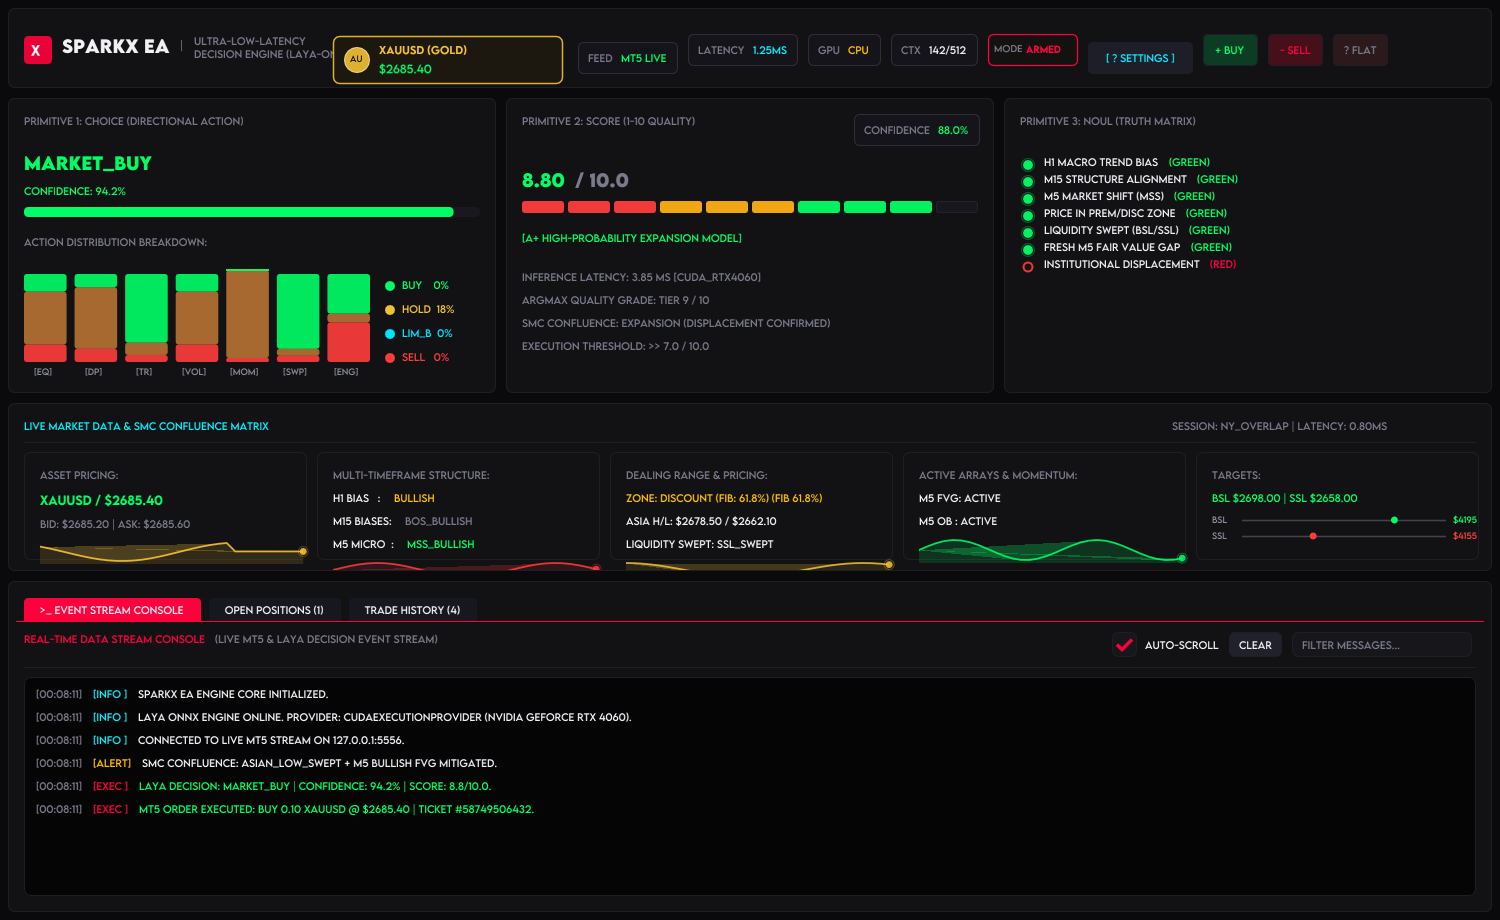
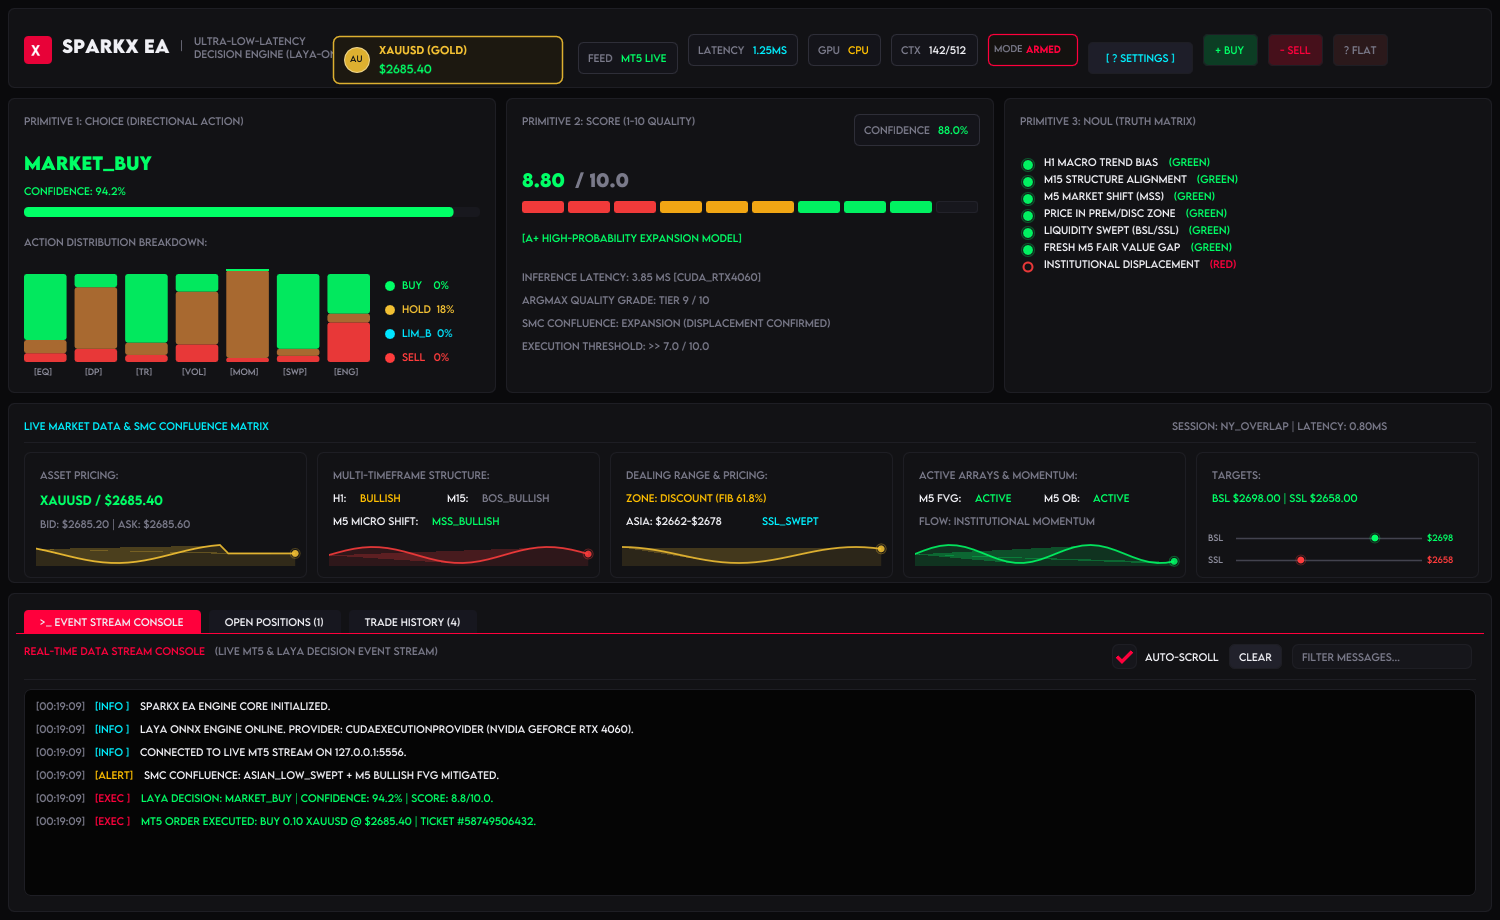
fix(ui): eliminate sparkline overflow outside card outlines and format SMC telemetry grid

diff --git a/cpp_engine/src/ui_panels.cpp b/cpp_engine/src/ui_panels.cpp
@@ -668,7 +668,7 @@ void RenderLayaPrimitives(const LayaOutput& laya, const MarketFrame& frame) {
 void RenderSMCContext(const MarketFrame& frame) {
     ImGui::PushStyleColor(ImGuiCol_ChildBg, CyberpunkTheme::BG_PANEL);
     ImGui::PushStyleColor(ImGuiCol_Border, CyberpunkTheme::BORDER_DARK);
-    ImGui::BeginChild("SMCContextPanel", ImVec2(0, 168), true, ImGuiWindowFlags_NoScrollbar | ImGuiWindowFlags_NoScrollWithMouse);
+    ImGui::BeginChild("SMCContextPanel", ImVec2(0, 180), true, ImGuiWindowFlags_NoScrollbar | ImGuiWindowFlags_NoScrollWithMouse);
 
     ImGui::TextColored(CyberpunkTheme::NEON_CYAN, "LIVE MARKET DATA & SMC CONFLUENCE MATRIX");
     ImGui::SameLine(ImGui::GetWindowWidth() - 320);
@@ -677,13 +677,15 @@ void RenderSMCContext(const MarketFrame& frame) {
 
     ImVec2 avail = ImGui::GetContentRegionAvail();
     float card_w = (avail.x - 36.0f) / 5.0f;
-    float card_h = 108.0f;
-    ImDrawList* dl = ImGui::GetWindowDrawList();
+    float card_h = 126.0f;
 
     // -------------------------------------------------------------------------
     // Card 1: ASSET PRICING
     // -------------------------------------------------------------------------
     ImGui::BeginChild("Card1_Pricing", ImVec2(card_w, card_h), true, ImGuiWindowFlags_NoScrollbar | ImGuiWindowFlags_NoScrollWithMouse);
+    ImDrawList* card1_dl = ImGui::GetWindowDrawList();
+    ImVec2 card1_pos = ImGui::GetWindowPos();
+
     ImGui::TextColored(CyberpunkTheme::TEXT_MUTED, "ASSET PRICING:");
     ImGui::PushFont(CyberpunkTheme::g_font_bold_med);
     ImGui::TextColored(CyberpunkTheme::NEON_GREEN, "%s / $%.2f", frame.symbol.c_str(), frame.price);
@@ -691,8 +693,10 @@ void RenderSMCContext(const MarketFrame& frame) {
     ImGui::TextColored(CyberpunkTheme::TEXT_MUTED, "Bid: $%.2f | Ask: $%.2f", frame.bid, frame.ask);
 
     // Mini Sparkline Wave (Gold)
-    ImVec2 sp_pos = ImGui::GetCursorScreenPos();
-    DrawMiniSparkline(dl, sp_pos, ImVec2(card_w - 20.0f, 24.0f), s_gold_history, 32, IM_COL32(242, 192, 51, 230), IM_COL32(242, 192, 51, 35));
+    float sp1_w = card_w - 24.0f;
+    float sp1_h = 24.0f;
+    ImVec2 sp1_pos(card1_pos.x + 12.0f, card1_pos.y + card_h - sp1_h - 12.0f);
+    DrawMiniSparkline(card1_dl, sp1_pos, ImVec2(sp1_w, sp1_h), s_gold_history, 32, IM_COL32(242, 192, 51, 230), IM_COL32(242, 192, 51, 35));
     ImGui::EndChild();
 
     ImGui::SameLine();
@@ -701,17 +705,24 @@ void RenderSMCContext(const MarketFrame& frame) {
     // Card 2: MULTI-TIMEFRAME STRUCTURE
     // -------------------------------------------------------------------------
     ImGui::BeginChild("Card2_MTF", ImVec2(card_w, card_h), true, ImGuiWindowFlags_NoScrollbar | ImGuiWindowFlags_NoScrollWithMouse);
+    ImDrawList* card2_dl = ImGui::GetWindowDrawList();
+    ImVec2 card2_pos = ImGui::GetWindowPos();
+
     ImGui::TextColored(CyberpunkTheme::TEXT_MUTED, "MULTI-TIMEFRAME STRUCTURE:");
-    ImGui::Text("H1 Bias   : "); ImGui::SameLine();
+    ImGui::Text("H1: "); ImGui::SameLine();
     ImGui::TextColored(CyberpunkTheme::NEON_AMBER, "%s", frame.bias.h1_trend.c_str());
-    ImGui::Text("M15 Biases: "); ImGui::SameLine();
+    ImGui::SameLine(card_w * 0.46f);
+    ImGui::Text("M15: "); ImGui::SameLine();
     ImGui::TextColored(CyberpunkTheme::TEXT_MUTED, "%s", frame.bias.m15_struct.c_str());
-    ImGui::Text("M5 Micro  : "); ImGui::SameLine();
+
+    ImGui::Text("M5 Micro Shift: "); ImGui::SameLine();
     ImGui::TextColored(CyberpunkTheme::NEON_GREEN, "%s", frame.bias.m5_struct.c_str());
 
     // Mini Sparkline Wave (Red/Green)
-    ImVec2 sp_pos2 = ImGui::GetCursorScreenPos();
-    DrawMiniSparkline(dl, sp_pos2, ImVec2(card_w - 20.0f, 20.0f), s_mtf_history, 32, IM_COL32(255, 60, 60, 220), IM_COL32(255, 60, 60, 30));
+    float sp2_w = card_w - 24.0f;
+    float sp2_h = 22.0f;
+    ImVec2 sp2_pos(card2_pos.x + 12.0f, card2_pos.y + card_h - sp2_h - 12.0f);
+    DrawMiniSparkline(card2_dl, sp2_pos, ImVec2(sp2_w, sp2_h), s_mtf_history, 32, IM_COL32(255, 60, 60, 220), IM_COL32(255, 60, 60, 30));
     ImGui::EndChild();
 
     ImGui::SameLine();
@@ -720,14 +731,20 @@ void RenderSMCContext(const MarketFrame& frame) {
     // Card 3: DEALING RANGE & PRICING
     // -------------------------------------------------------------------------
     ImGui::BeginChild("Card3_Range", ImVec2(card_w, card_h), true, ImGuiWindowFlags_NoScrollbar | ImGuiWindowFlags_NoScrollWithMouse);
+    ImDrawList* card3_dl = ImGui::GetWindowDrawList();
+    ImVec2 card3_pos = ImGui::GetWindowPos();
+
     ImGui::TextColored(CyberpunkTheme::TEXT_MUTED, "DEALING RANGE & PRICING:");
     ImGui::TextColored(CyberpunkTheme::NEON_AMBER, "Zone: %s (Fib %.1f%%)", frame.bias.zone.c_str(), frame.bias.fib_pct);
-    ImGui::Text("Asia H/L: $%.2f / $%.2f", frame.liquidity.asia_high, frame.liquidity.asia_low);
-    ImGui::Text("Liquidity Swept: %s", frame.liquidity.ssl_swept ? "SSL_SWEPT" : (frame.liquidity.bsl_swept ? "BSL_SWEPT" : "NONE"));
+    ImGui::Text("Asia: $%.0f-$%.0f", frame.liquidity.asia_low, frame.liquidity.asia_high);
+    ImGui::SameLine(card_w * 0.54f);
+    ImGui::TextColored(CyberpunkTheme::NEON_CYAN, "%s", frame.liquidity.ssl_swept ? "SSL_SWEPT" : (frame.liquidity.bsl_swept ? "BSL_SWEPT" : "NONE"));
 
     // Mini Sparkline Wave (Gold)
-    ImVec2 sp_pos3 = ImGui::GetCursorScreenPos();
-    DrawMiniSparkline(dl, sp_pos3, ImVec2(card_w - 20.0f, 20.0f), s_range_history, 32, IM_COL32(242, 192, 51, 220), IM_COL32(242, 192, 51, 30));
+    float sp3_w = card_w - 24.0f;
+    float sp3_h = 22.0f;
+    ImVec2 sp3_pos(card3_pos.x + 12.0f, card3_pos.y + card_h - sp3_h - 12.0f);
+    DrawMiniSparkline(card3_dl, sp3_pos, ImVec2(sp3_w, sp3_h), s_range_history, 32, IM_COL32(242, 192, 51, 220), IM_COL32(242, 192, 51, 30));
     ImGui::EndChild();
 
     ImGui::SameLine();
@@ -736,13 +753,23 @@ void RenderSMCContext(const MarketFrame& frame) {
     // Card 4: ACTIVE ARRAYS & MOMENTUM
     // -------------------------------------------------------------------------
     ImGui::BeginChild("Card4_Arrays", ImVec2(card_w, card_h), true, ImGuiWindowFlags_NoScrollbar | ImGuiWindowFlags_NoScrollWithMouse);
+    ImDrawList* card4_dl = ImGui::GetWindowDrawList();
+    ImVec2 card4_pos = ImGui::GetWindowPos();
+
     ImGui::TextColored(CyberpunkTheme::TEXT_MUTED, "ACTIVE ARRAYS & MOMENTUM:");
-    ImGui::Text("M5 FVG: %s", frame.arrays.fvg_active ? "ACTIVE" : "NONE");
-    ImGui::Text("M5 OB : %s", frame.arrays.ob_active ? "ACTIVE" : "NONE");
+    ImGui::Text("M5 FVG: "); ImGui::SameLine();
+    ImGui::TextColored(CyberpunkTheme::NEON_GREEN, "%s", frame.arrays.fvg_active ? "ACTIVE" : "NONE");
+    ImGui::SameLine(card_w * 0.50f);
+    ImGui::Text("M5 OB: "); ImGui::SameLine();
+    ImGui::TextColored(CyberpunkTheme::NEON_GREEN, "%s", frame.arrays.ob_active ? "ACTIVE" : "NONE");
+
+    ImGui::TextColored(CyberpunkTheme::TEXT_MUTED, "Flow: Institutional Momentum");
 
     // Mini Sparkline Wave (Green)
-    ImVec2 sp_pos4 = ImGui::GetCursorScreenPos();
-    DrawMiniSparkline(dl, sp_pos4, ImVec2(card_w - 20.0f, 26.0f), s_array_history, 32, IM_COL32(0, 255, 102, 220), IM_COL32(0, 255, 102, 35));
+    float sp4_w = card_w - 24.0f;
+    float sp4_h = 24.0f;
+    ImVec2 sp4_pos(card4_pos.x + 12.0f, card4_pos.y + card_h - sp4_h - 12.0f);
+    DrawMiniSparkline(card4_dl, sp4_pos, ImVec2(sp4_w, sp4_h), s_array_history, 32, IM_COL32(0, 255, 102, 220), IM_COL32(0, 255, 102, 35));
     ImGui::EndChild();
 
     ImGui::SameLine();
@@ -751,23 +778,40 @@ void RenderSMCContext(const MarketFrame& frame) {
     // Card 5: TARGETS (Sliders & Dual Target Chart)
     // -------------------------------------------------------------------------
     ImGui::BeginChild("Card5_Targets", ImVec2(card_w, card_h), true, ImGuiWindowFlags_NoScrollbar | ImGuiWindowFlags_NoScrollWithMouse);
+    ImDrawList* card5_dl = ImGui::GetWindowDrawList();
+    ImVec2 card5_pos = ImGui::GetWindowPos();
+
     ImGui::TextColored(CyberpunkTheme::TEXT_MUTED, "TARGETS:");
     ImGui::TextColored(CyberpunkTheme::NEON_GREEN, "BSL $%.2f | SSL $%.2f", frame.liquidity.bsl_target, frame.liquidity.ssl_target);
 
-    // Target Range Horizontal sliders with dots
-    ImVec2 t_pos = ImGui::GetCursorScreenPos();
-    float line_w = card_w - 80.0f;
+    // Target Range Horizontal sliders with dynamic targets
+    float slider_label_w = 28.0f;
+    float slider_val_w = 46.0f;
+    float slider_x = card5_pos.x + 12.0f + slider_label_w;
+    float slider_w = card_w - 24.0f - slider_label_w - slider_val_w;
+    float val_x = slider_x + slider_w + 6.0f;
+
+    float line_y1 = card5_pos.y + card_h - 40.0f;
+    float line_y2 = card5_pos.y + card_h - 18.0f;
+
+    char bsl_buf[32];
+    std::snprintf(bsl_buf, sizeof(bsl_buf), "$%.0f", frame.liquidity.bsl_target);
+    char ssl_buf[32];
+    std::snprintf(ssl_buf, sizeof(ssl_buf), "$%.0f", frame.liquidity.ssl_target);
+
     // BSL Line
-    dl->AddLine(ImVec2(t_pos.x + 30, t_pos.y + 6), ImVec2(t_pos.x + 30 + line_w, t_pos.y + 6), IM_COL32(80, 80, 95, 200), 1.5f);
-    dl->AddCircleFilled(ImVec2(t_pos.x + 30 + line_w * 0.75f, t_pos.y + 6), 3.5f, IM_COL32(0, 255, 102, 255));
-    dl->AddText(CyberpunkTheme::g_font_small, 11.0f, ImVec2(t_pos.x, t_pos.y), IM_COL32(140, 140, 155, 255), "BSL");
-    dl->AddText(CyberpunkTheme::g_font_small, 11.0f, ImVec2(t_pos.x + 38 + line_w, t_pos.y), IM_COL32(0, 255, 102, 255), "$4195");
+    card5_dl->AddText(CyberpunkTheme::g_font_small, 11.0f, ImVec2(card5_pos.x + 12.0f, line_y1 - 6.0f), IM_COL32(140, 140, 155, 255), "BSL");
+    card5_dl->AddLine(ImVec2(slider_x, line_y1), ImVec2(slider_x + slider_w, line_y1), IM_COL32(80, 80, 95, 200), 1.5f);
+    card5_dl->AddCircleFilled(ImVec2(slider_x + slider_w * 0.75f, line_y1), 3.5f, IM_COL32(0, 255, 102, 255));
+    card5_dl->AddCircle(ImVec2(slider_x + slider_w * 0.75f, line_y1), 5.5f, IM_COL32(0, 255, 102, 70), 12, 1.0f);
+    card5_dl->AddText(CyberpunkTheme::g_font_small, 11.0f, ImVec2(val_x, line_y1 - 6.0f), IM_COL32(0, 255, 102, 255), bsl_buf);
 
     // SSL Line
-    dl->AddLine(ImVec2(t_pos.x + 30, t_pos.y + 22), ImVec2(t_pos.x + 30 + line_w, t_pos.y + 22), IM_COL32(80, 80, 95, 200), 1.5f);
-    dl->AddCircleFilled(ImVec2(t_pos.x + 30 + line_w * 0.35f, t_pos.y + 22), 3.5f, IM_COL32(255, 60, 60, 255));
-    dl->AddText(CyberpunkTheme::g_font_small, 11.0f, ImVec2(t_pos.x, t_pos.y + 16), IM_COL32(140, 140, 155, 255), "SSL");
-    dl->AddText(CyberpunkTheme::g_font_small, 11.0f, ImVec2(t_pos.x + 38 + line_w, t_pos.y + 16), IM_COL32(255, 60, 60, 255), "$4155");
+    card5_dl->AddText(CyberpunkTheme::g_font_small, 11.0f, ImVec2(card5_pos.x + 12.0f, line_y2 - 6.0f), IM_COL32(140, 140, 155, 255), "SSL");
+    card5_dl->AddLine(ImVec2(slider_x, line_y2), ImVec2(slider_x + slider_w, line_y2), IM_COL32(80, 80, 95, 200), 1.5f);
+    card5_dl->AddCircleFilled(ImVec2(slider_x + slider_w * 0.35f, line_y2), 3.5f, IM_COL32(255, 60, 60, 255));
+    card5_dl->AddCircle(ImVec2(slider_x + slider_w * 0.35f, line_y2), 5.5f, IM_COL32(255, 60, 60, 70), 12, 1.0f);
+    card5_dl->AddText(CyberpunkTheme::g_font_small, 11.0f, ImVec2(val_x, line_y2 - 6.0f), IM_COL32(255, 60, 60, 255), ssl_buf);
 
     ImGui::EndChild();
 

diff --git a/cpp_engine/src/main.cpp b/cpp_engine/src/main.cpp
@@ -250,7 +250,7 @@ int main(int argc, char** argv) {
         frame.bias.h1_trend = "BULLISH";
         frame.bias.m15_struct = "BOS_BULLISH";
         frame.bias.m5_struct = "MSS_BULLISH";
-        frame.bias.zone = "DISCOUNT (Fib: 61.8%)";
+        frame.bias.zone = "DISCOUNT";
         frame.bias.fib_pct = 61.8f;
         frame.liquidity.asia_high = 2678.50;
         frame.liquidity.asia_low = 2662.10;
